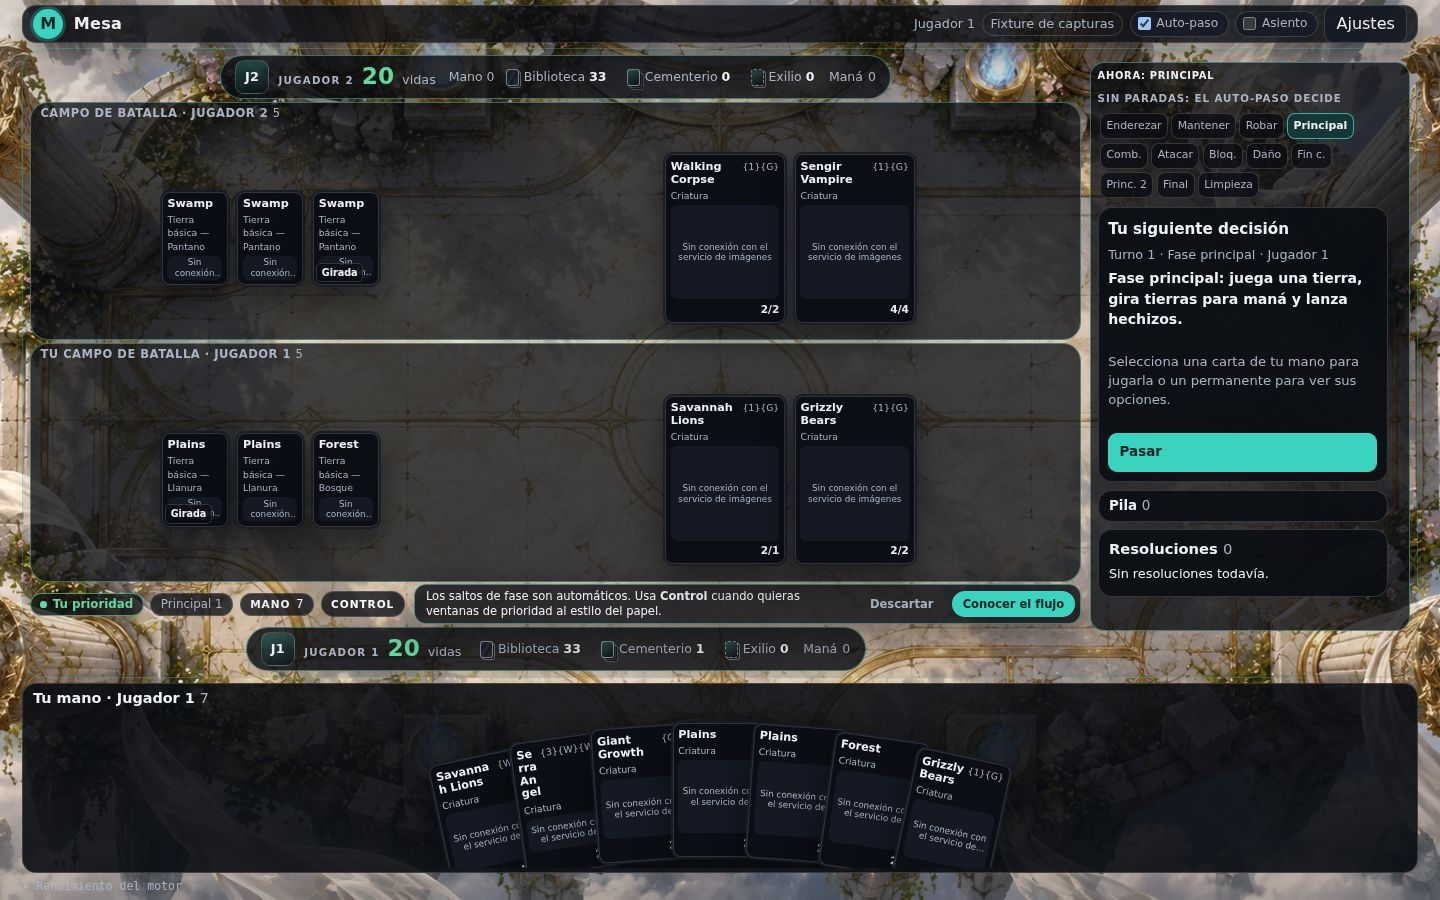
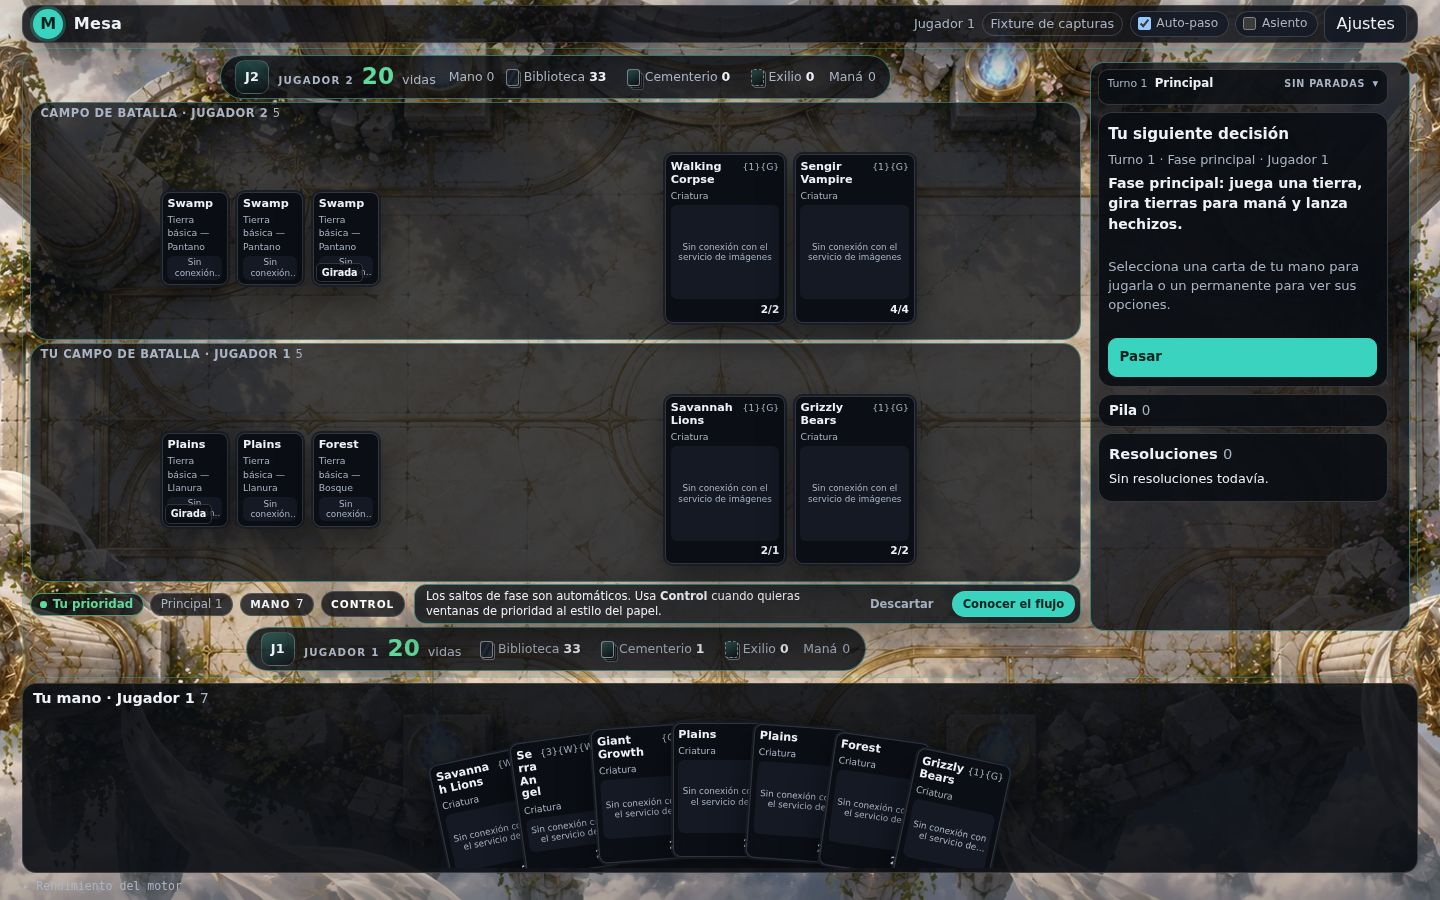
Dejar la decisión entera en el rail: chip de fase compacto
La fila de doce chips y su subtítulo costaban 131 px de un rail de 569 y la
decisión dejaba de caber entera, que es lo que mide arena-ui.spec.ts. En el
escritorio corto se usa el chip de paso de Phase con su hoja de paradas; la
fila se queda en la tableta. Los campos aceptan min-content para que una mesa
llena desplace en vez de desbordar.

Changed region(s): [[0.75, 0.0622, 0.9688, 0.6844]]

diff --git a/src/lib/styles/arena.css b/src/lib/styles/arena.css
@@ -1556,8 +1556,14 @@
      del alto repartido entre huecos. */
   .app[data-board-style="arena"] .layout[data-room="tall"][data-board-grid="split"] {
     /* El registro (`auto`) cabe en la primera fila porque vive en la columna 2
-       con `grid-row: 1 / -1`; los campos se reparten el resto. */
-    grid-template-rows: auto minmax(0, 1fr) minmax(0, 1fr) auto;
+       con `grid-row: 1 / -1`; los campos se reparten el resto.
+       `minmax(min-content, 1fr)` y no `minmax(0, 1fr)`: con la mesa llena (seis
+       tierras y cuatro criaturas por lado) las filas de permanentes son más
+       altas que su mitad, y con el mínimo en 0 se salían de su campo en vez de
+       dejar que la región desplazara. Así el reparto es exacto cuando sobra
+       alto y la región vuelve a desplazar cuando no alcanza, que es lo que
+       `arena-viewport-matrix.spec.ts` mide con la mesa llena. */
+    grid-template-rows: auto minmax(min-content, 1fr) minmax(min-content, 1fr) auto;
   }
   .app[data-board-style="arena"] .layout[data-room="tall"][data-board-grid="split"] > .battlefield[data-side="opponent"] { grid-row: 2; }
   .app[data-board-style="arena"] .layout[data-room="tall"][data-board-grid="split"] > .battlefield[data-side="player"] { grid-row: 3; }

diff --git a/src/lib/components/MobilePhaseChip.svelte b/src/lib/components/MobilePhaseChip.svelte
@@ -122,10 +122,19 @@
 {/if}
 
 <style>
-  /* The chip is the phone form of the stop bar; from 641 px up the bar has room
-     for twelve chips and the sheet would be a second way to do the same thing. */
+  /* The chip is the compact form of the stop bar. It shows on phones — where a
+     30 px chip is untappable — and, since the desktop rail became a 320 px
+     column, also on the short-desktop rail.
+   *
+   * Evidence (`docs/evidence/tablero-despues-*.json`): the twelve-chip row costs
+     89 px of a 569 px rail — or 131 px while it still printed its caption — and
+     the decision beneath it owes ~275 px. `arena-ui.spec.ts` measures that the
+     decision fits whole inside the rail, and it did not. Phase's own client
+     does the same below `lg`: `MobilePhaseChip` names the step and the sheet
+     keeps all twelve stops one disclosure away. Tablets (641–1099 px) keep the
+     twelve-chip row, where it fits. */
   .phase-chip { display: none; }
-  @media (max-width: 640px) {
+  @media (max-width: 640px), (min-width: 1100px) and (max-height: 1000px) {
     .phase-chip { display: block; min-width: 0; }
   }
   .chip {

diff --git a/src/lib/components/PhaseStopBar.svelte b/src/lib/components/PhaseStopBar.svelte
@@ -176,6 +176,13 @@
     color: var(--ink);
   }
   .stop-bar[data-compact='true'] .caption .turn { display: none; }
+  /* En el rail de escritorio la forma compacta es el chip de Phase
+     (`MobilePhaseChip`): la fila de doce chips se queda para la tableta, donde
+     tiene ancho. Medido: la fila cuesta 89 px de un rail de 569 y la decisión
+     deja de caber entera, que es lo que mide `arena-ui.spec.ts`. */
+  @media (min-width: 1100px) and (max-height: 1000px) {
+    .stop-bar { display: none; }
+  }
   .step:hover { color: var(--ink); border-color: color-mix(in srgb, var(--accent) 55%, var(--line)); }
   .step:focus-visible { outline: 2px solid var(--focus); outline-offset: 2px; }
   .step[aria-current='step'] {

diff --git a/docs/PHASE-UX-PORT.md b/docs/PHASE-UX-PORT.md
@@ -3861,12 +3861,19 @@ misma fixture y escribe foto + medidas en el mismo pase.
 | --- | --- | --- |
 | **1. Reparto del ancho** | mesa 1395 px; rail de decisión de 392 px con el registro plegado dentro | mesa 1052 px + **columna de registro de 320 px** (`x: 1090`, ancho 320, alto 569); el rail vive en esa columna |
 | **2. Alto por campo** | 204 px por campo, 204 px de hueco entre los dos, y el contenedor del tablero desplazaba 225 px por dentro | 238 px por campo, los dos pegados al centro de su mitad, y `.layout` **sin desplazamiento interno** (`clientHeight` 628 = `scrollHeight` 628) |
-| **3. Barra de fases** | rail de 362 px, 868 px de chips, **4 de 12** pasos visibles con 8 sin señal | fila de 290 px, `scrollWidth` 290, **12 de 12** visibles; dos líneas con los cuatro rótulos largos abreviados |
+| **3. Barra de fases** | rail de 362 px, 868 px de chips, **4 de 12** pasos visibles con 8 sin señal | **12 de 12** alcanzables y ninguno escondido: en tableta, fila de chips que envuelve (290 px de rail, `scrollWidth` 290); en el rail de escritorio, el chip de paso de Phase (`Turno 1 · Principal · sin paradas ▾`) que abre una hoja con los doce y su parada |
 | **4. Consejo de flujo** | 544×97 en una fila propia entre el campo y la mano | 667×40 en la fila de chips de estado, **sin fila propia**: comparte fila con `Tu prioridad · Principal 1 · MANO 7 · CONTROL`, que es donde Phase pone `Your priority` / `HAND 7` / `CONTROL` |
 | **6. Barra de asiento** | franja única de 760 px centrada en la mesa | contador de 671 px (asiento rival) y 620 px (propio) pegados al ancho de su columna: la vida a la izquierda, las pilas a la derecha |
 
 A 1280 el mismo reparto da 892 px de campo, 320 px de registro, el registro
-visible entero (`y: 528`) y 12 de 12 pasos en una fila de 290 px.
+visible entero (`y: 528`) y los doce pasos a un clic del mismo chip.
+
+En el rail de escritorio la fila de doce chips cuesta 89 px de un rail de 569 y
+deja la decisión sin sitio: `arena-ui.spec.ts` mide que se ve **entera** dentro
+del rail y con la fila dejaba de caber. Se probó también ocultar sólo el
+subtítulo (58 px): tampoco alcanzaba. La forma compacta es la de Phase debajo de
+`lg` —un chip que nombra el paso y una hoja con los doce—, y la fila se queda en
+la tableta (641–1099 px), que sí tiene ancho.
 
 ### Lo que **no** se copió, y por qué
 
